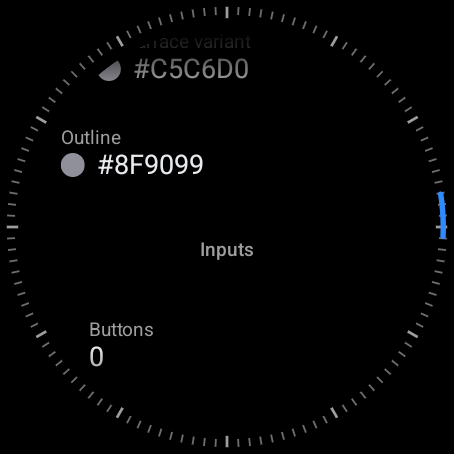
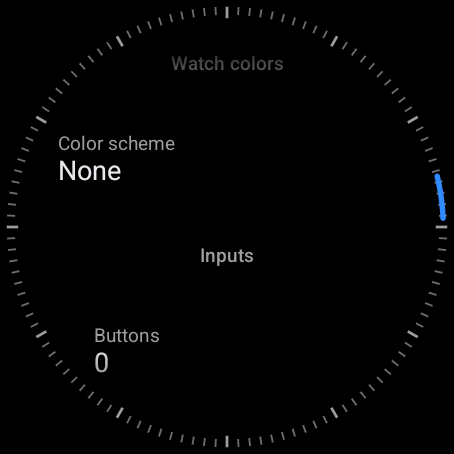
Check screen pictures, large round, with `Fused heading` (v3 Task 7 fix round 1)
Claude-Session: https://claude.ai/code/session_01KAiVD4eVXLN9qRyssXtjz6

diff --git a/docs/screenshots/README.md b/docs/screenshots/README.md
@@ -105,7 +105,7 @@ Every picture here is a capture from an emulator, taken on 2026-10-13 from the d
 | Calibration: seven segments of the ring lit, `Covered 29%`, and the `Check` row at the bottom (2026-10-15, v3 Tasks 6 and 7; retaken in Task 7 fix round 1 with the ring at 0.21 of the radius) | `calibrate` | `calibration`: `Calibrate` tapped at heading 40, then the fields `0:20:-45 -20:0:-45 0:-20:-45 20:0:-45 45:20:0 0:20:45` set through the console |
 | Interference (2026-10-15, retaken in v3 Task 6 fix round 1 and, with the larger ring, in Task 7 fix round 1) | `calibrate-interference` | `calibration`: then `adb emu sensor set magnetic-field 46:46:-65` (92 microtesla, through the back toward the upper right): that segment lights too, 33%, with the warning and the red frame |
 | The release build's calibration: no `Check` row (2026-10-15, v3 Task 7; taken with the ring at 0.17 of the radius, before Task 7 fix round 1 made it 0.21) | `calibrate-release` (small only) | by hand: `./gradlew assembleRelease`, the unsigned APK aligned and signed with this machine's debug key in a scratch folder (`zipalign`, `apksigner`), installed in place of the debug build, `Calibrate` tapped; the debug build installed again after |
-| The check screen, its top: `Heading source` and `Fused heading` (2026-10-15, v3 Task 7; small retaken in fix round 1 with the row's new label) | `check-top` | `check`: `Check` tapped on calibration at heading 40 |
+| The check screen, its top: `Heading source` and `Fused heading` (2026-10-15, v3 Task 7; retaken in fix round 1 with the row's new label, with `check-inputs` and `check-vibrations`) | `check-top` | `check`: `Check` tapped on calibration at heading 40 |
 | The check screen in the watch build (minified, not debuggable): its top, and `Wear SDK reached` `Yes`, `One-handed gestures` `No` (2026-10-15, v3 Task 7 fix round 1) | `check-watch-build`, `check-watch-build-inputs` (small only) | by hand: `./gradlew assembleWatch`, `app-watch.apk` installed in place of the debug build, `Calibrate` and `Check` tapped, scrolled; the debug build installed again after |
 | The check screen at `Watch colors`: the scheme's colors with their dots (large: `dynamic_color_theme_enabled` 1, the API 35 image's `#D9E2FF` primary), or `None` | `check-watch-colors`, `check-watch-colors-none` (large) | `check`: scrolled; the large one with the setting put to 1 with `adb shell settings put global` and deleted after, the `-none` one and the small one without it |
 | The check screen at `Inputs` | `check-inputs` | `check`: scrolled |
